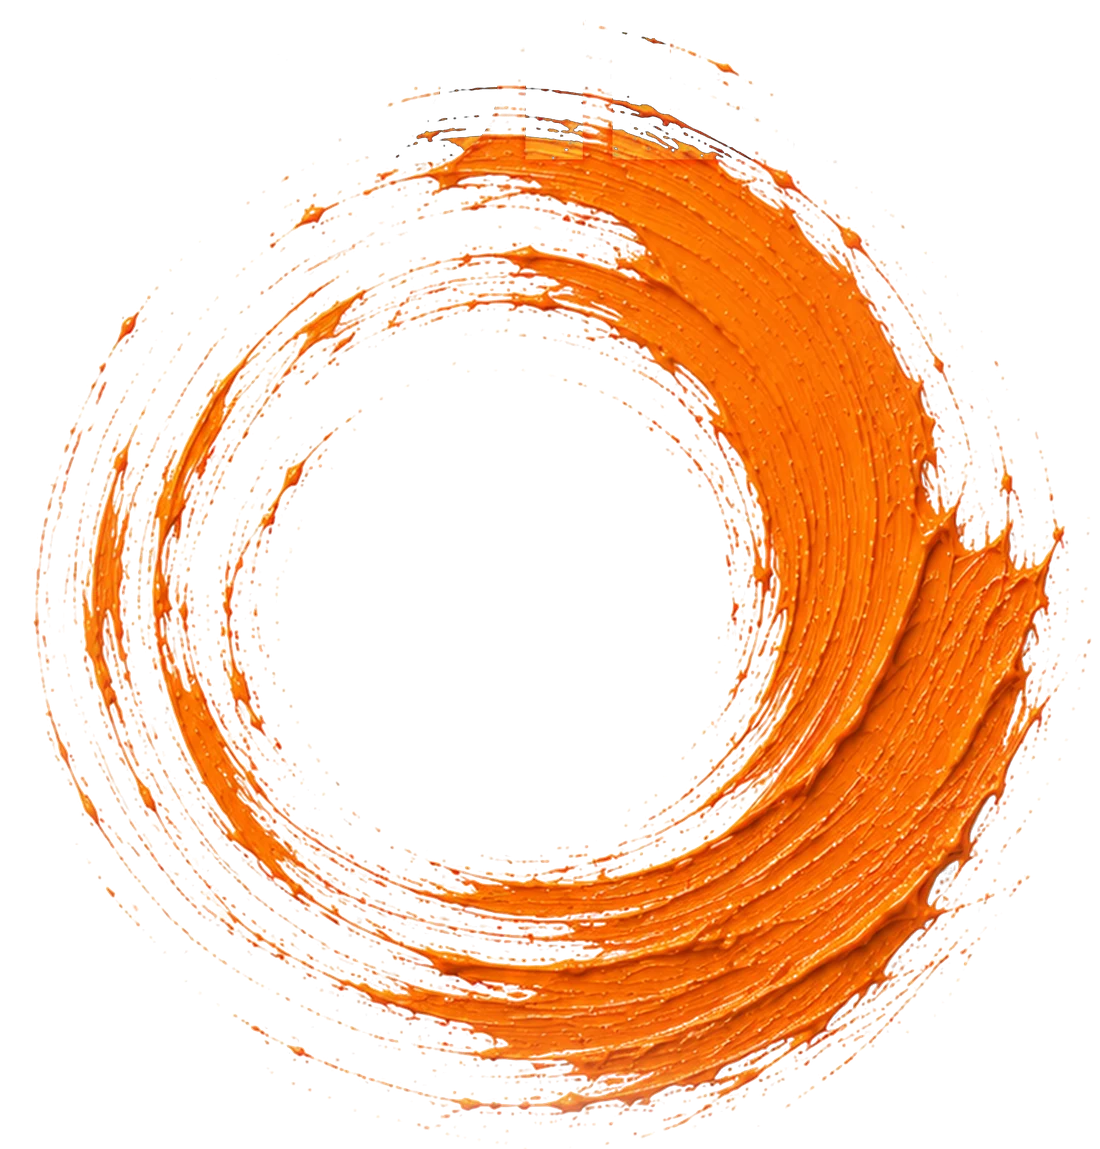
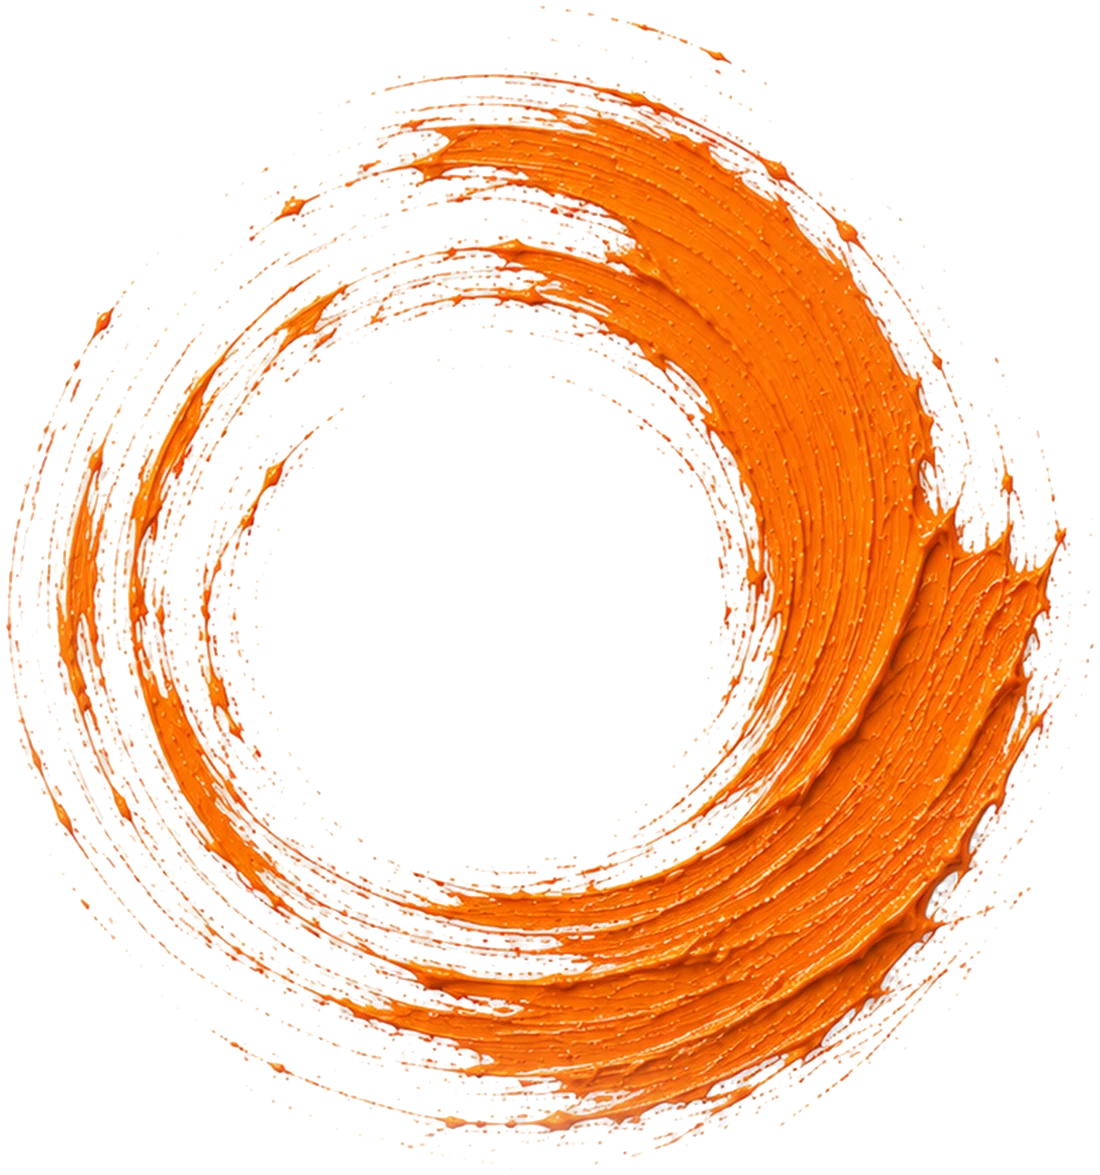
v 1.2

Changed region(s): [[0.0, 0.0305, 0.9891, 0.9748], [0.2164, 0.8834, 0.3091, 0.9443], [0.5564, 0.0, 0.5873, 0.0305]]

diff --git a/index.html b/index.html
@@ -526,7 +526,7 @@ body { margin: 0; background: #ECE8E5; color: #111111; overflow-x: hidden; -webk
 
 <footer style="position: absolute; left: 80px; top: 1240px; width: 1280px; height: 60px; border-top: 1px solid rgba(17,17,17,0.25); display: flex; align-items: center; justify-content: space-between; font: 400 14px/1 'Hanken Grotesk', sans-serif">
 <span style="display: flex; align-items: center; gap: 7px; color: #3F3B37">Designed with <svg width="16" height="15" viewBox="0 0 24 22" role="img" aria-label="love" style="display: block"><path d="M12 21.5 C 5 16.2 1 12.4 1 7.4 C 1 3.8 3.7 1 7.1 1 C 9.2 1 10.9 2 12 3.7 C 13.1 2 14.8 1 16.9 1 C 20.3 1 23 3.8 23 7.4 C 23 12.4 19 16.2 12 21.5 Z" fill="#F57106"></path></svg> by Andreas Mitschke</span>
-<div style="display: flex; gap: 28px"><a href="impressum.html" style="text-decoration: none">Impressum</a><a href="privacy.html" style="text-decoration: none">Privacy</a></div>
+<div style="display: flex; gap: 28px"><a href="grant-and-bear-publishing/" ref="{{fxRef}}" data-fx="nav" style="text-decoration: none">Grant &amp; Bear Publishing</a><a href="impressum.html" ref="{{fxRef}}" data-fx="nav" style="text-decoration: none">Impressum</a><a href="privacy.html" ref="{{fxRef}}" data-fx="nav" style="text-decoration: none">Privacy</a></div>
 </footer>
 </section>
 </div>
@@ -1520,11 +1520,11 @@ void main(){
   fxAttach(el) {
     if (!el || el.__fx) return;
     const kind = el.getAttribute('data-fx') || 'orange';
-    const P = { orange: { fill: '17,17,17', from: '255,255,255', to: '255,255,255', mag: 0 }, ink: { fill: '245,113,6', from: '236,232,229', to: '17,17,17', mag: 0 }, outline: { fill: '17,17,17', from: '17,17,17', to: '236,232,229', mag: 0.6 }, card: { fill: '17,17,17', from: '17,17,17', to: '236,232,229', mag: 0 }, link: { fill: '', from: '', to: '', mag: 0 } }[kind] || {};
+    const P = { orange: { fill: '17,17,17', from: '255,255,255', to: '255,255,255', mag: 0 }, ink: { fill: '245,113,6', from: '236,232,229', to: '17,17,17', mag: 0 }, outline: { fill: '17,17,17', from: '17,17,17', to: '236,232,229', mag: 0.6 }, card: { fill: '17,17,17', from: '17,17,17', to: '236,232,229', mag: 0 }, link: { fill: '', from: '', to: '', mag: 0 }, nav: { fill: '', from: '', to: '', mag: 0 } }[kind] || {};
     const F = { el, kind, P, h: 0, hv: 0, ht: 0, x: 0, y: 0, vx: 0, vy: 0, tx: 0, ty: 0, s: 1, vs: 0, ts: 1, ox: 0.5, oy: 0.5, raf: 0, last: 0 };
     el.__fx = F; (this.fxList = this.fxList || []).push(F);
     el.style.willChange = 'translate, scale'; el.style.backfaceVisibility = 'hidden'; el.style.transition = kind === 'outline' ? 'translate 1.6s cubic-bezier(.22,1,.36,1)' : 'translate .9s cubic-bezier(.22,1,.36,1)';
-    if (kind !== 'link') {
+    if (kind !== 'link' && kind !== 'nav') {
       el.style.position = el.style.position || 'relative'; el.style.overflow = 'hidden'; el.style.isolation = 'isolate';
       const b = document.createElement('span'); b.setAttribute('aria-hidden', 'true');
       b.style.cssText = 'position:absolute;left:0;top:0;width:10px;height:10px;margin:-5px 0 0 -5px;border-radius:50%;pointer-events:none;z-index:-1;transform:scale(0);background:rgb(' + P.fill + ')';
@@ -1538,7 +1538,9 @@ void main(){
       u.style.cssText = 'position:absolute;left:0;right:0;bottom:-3px;height:2px;background:#F57106;transform-origin:0 50%;transform:scaleX(0);pointer-events:none';
       const u0 = document.createElement('span'); u0.setAttribute('aria-hidden', 'true');
       u0.style.cssText = 'position:absolute;left:0;right:0;bottom:-3px;height:1px;background:rgba(17,17,17,.35);pointer-events:none';
-      el.appendChild(u0); el.appendChild(u); F.line = u;
+      if (kind === 'nav') { u.style.left = '-4px'; u.style.right = '-4px'; u.style.bottom = '-6px'; u.style.height = '1.5px'; u.style.background = '#111111'; u.style.transformOrigin = '50% 50%'; u.style.borderRadius = '1px'; el.appendChild(u); }
+      else { el.appendChild(u0); el.appendChild(u); }
+      F.line = u;
     }
     F.arrow = el.querySelector('[data-fx-arrow]');
     const loc = (e) => { const r = el.getBoundingClientRect(); return [(e.clientX - r.left) / (r.width || 1), (e.clientY - r.top) / (r.height || 1)]; };
@@ -1598,8 +1600,8 @@ void main(){
     const sig = par.querySelector('a[href="signal.html"]');
     const band0 = sig ? top(sig) + sig.offsetHeight + 36 : top(A.q) - 40, band1 = top(A.w) - 28;   // below the Signal card to just above "Other ways"
     const left0 = 860, right = 1400;                               // right of the quote column to the page's right edge
-    let h = band1 - band0, w = h * 500 / 522;
-    if (w > right - left0) { w = right - left0; h = w * 522 / 500; }
+    let h = band1 - band0, w = h * 1100 / 1175;
+    if (w > right - left0) { w = right - left0; h = w * 1175 / 1100; }
     const y = band1 - h;                                            // sit on the band's bottom so it never touches "Other ways"
     A.c.style.top = y.toFixed(0) + 'px'; A.c.style.height = h.toFixed(0) + 'px'; A.c.style.width = w.toFixed(0) + 'px';
     A.c.style.left = (right - w).toFixed(0) + 'px';

diff --git a/README.md b/README.md
@@ -1,1 +1,15 @@
 # Known Before Built — website
+
+The whole page is `index.html` (layout, styles and scripts in one file).
+`assets/` holds the images, `fonts/` the self-hosted fonts.
+
+Before launch, in `index.html`:
+- Replace `https://form.typeform.com/to/[PLACEHOLDER]` (2×) with your Typeform link.
+- Set `showPlaceholders: true` to `false` to hide the orange [PLACEHOLDER] markers.
+- Fill in `impressum.html` and `privacy.html`.
+- Portrait: save your round photo as `assets/portrait.png` (square, at least 720 × 720 px, transparent corners fine). It replaces the dashed circle automatically.
+
+When the domain is bought: add it under Settings → Pages → Custom domain (GitHub creates the CNAME file),
+then ask for the canonical / share-image URLs to be set to the domain.
+
+Publisher page: put it in a folder `grant-and-bear-publishing/` with its own `index.html` (the footer links there).
